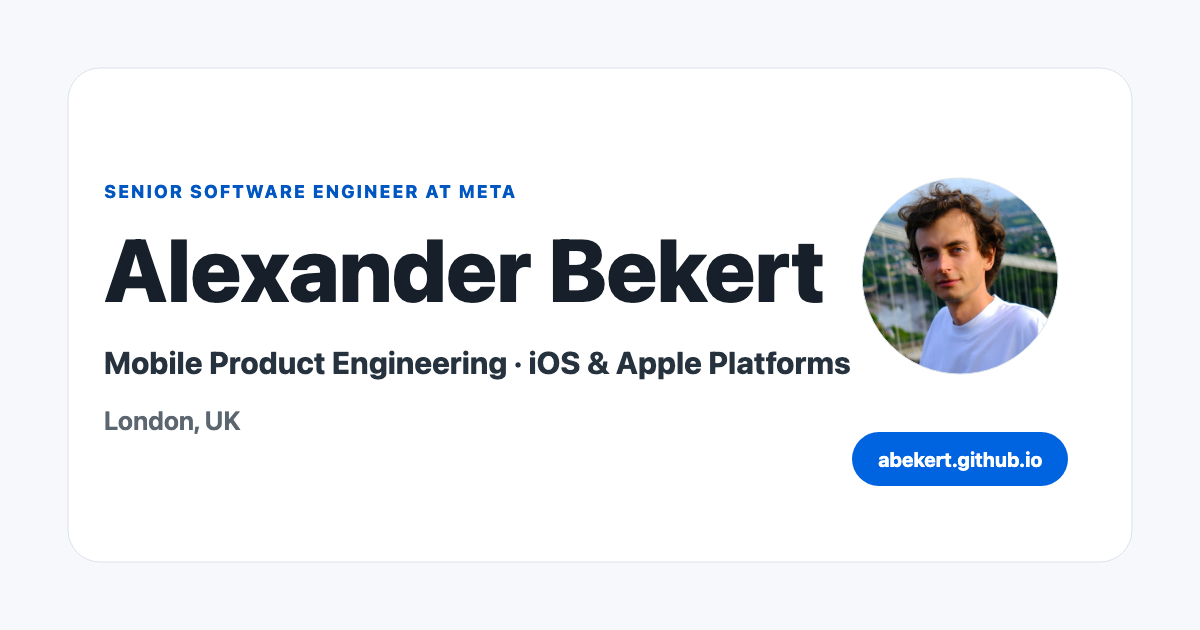
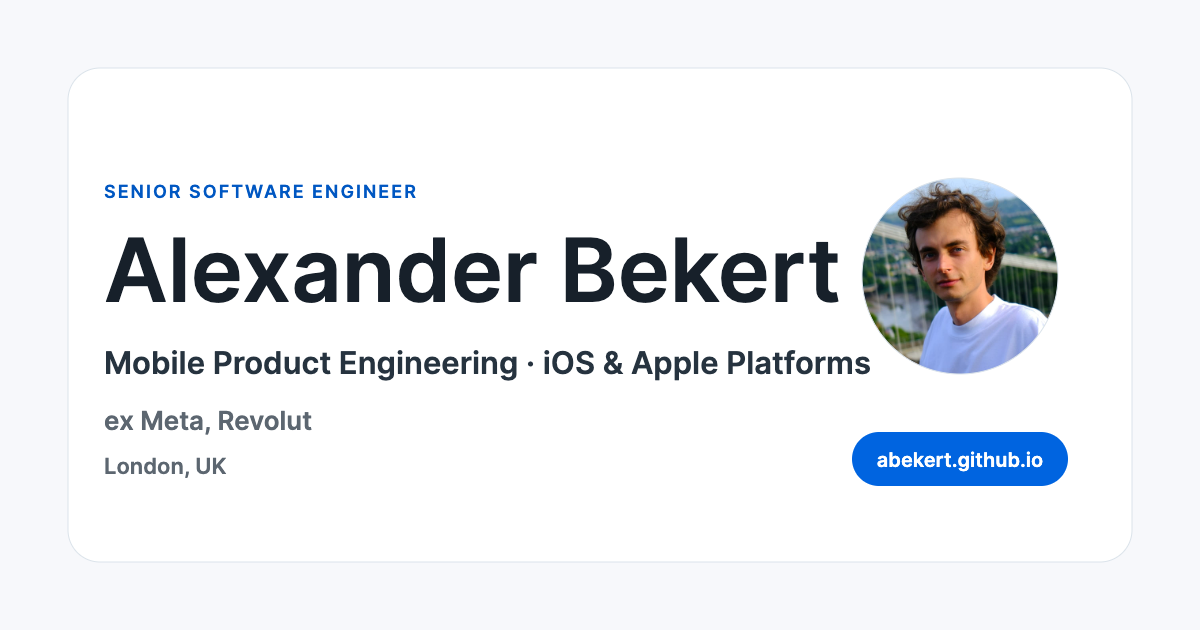
Update profile to highlight past Meta and Revolut experience

diff --git a/index.html b/index.html
@@ -6,11 +6,11 @@
     <title>Alexander Bekert — Senior Software Engineer, Mobile Product Engineering, iOS & Apple Platforms</title>
     <meta
       name="description"
-      content="Senior Software Engineer at Meta / WhatsApp focused on mobile product engineering, iOS, Apple platforms, mobile architecture, developer tooling, performance, and AI-assisted software development."
+      content="Senior Software Engineer, previously at Meta / WhatsApp (2022 - 2026) and Revolut (2021 - 2022), focused on mobile product engineering, iOS, Apple platforms, mobile architecture, developer tooling, performance, and AI-assisted software development."
     />
     <meta
       name="keywords"
-      content="Alexander Bekert, Senior Software Engineer, Mobile Engineering, iOS, Swift, Apple Platforms, WhatsApp, Meta, Mobile Architecture, Developer Tools, Product Engineering"
+      content="Alexander Bekert, Senior Software Engineer, Mobile Engineering, iOS, Swift, Apple Platforms, WhatsApp, Meta, Revolut, Mobile Architecture, Developer Tools, Product Engineering"
     />
     <meta name="author" content="Alexander Bekert" />
     <meta name="theme-color" content="#f7f8fb" />
@@ -24,7 +24,7 @@
     <meta property="og:title" content="Alexander Bekert — Senior Software Engineer, Mobile Product Engineering, iOS & Apple Platforms" />
     <meta
       property="og:description"
-      content="Senior Software Engineer at Meta / WhatsApp focused on mobile product engineering, iOS, Apple platforms, mobile architecture, developer tooling, performance, and AI-assisted software development."
+      content="Senior Software Engineer, previously at Meta / WhatsApp (2022 - 2026) and Revolut (2021 - 2022), focused on mobile product engineering, iOS, Apple platforms, mobile architecture, developer tooling, performance, and AI-assisted software development."
     />
     <meta property="og:image" content="https://abekert.github.io/images/og-image.png" />
     <meta property="og:image:alt" content="Alexander Bekert personal website preview" />
@@ -34,12 +34,12 @@
     <meta name="twitter:title" content="Alexander Bekert — Senior Software Engineer, Mobile Product Engineering, iOS & Apple Platforms" />
     <meta
       name="twitter:description"
-      content="Senior Software Engineer at Meta / WhatsApp focused on mobile product engineering, iOS, Apple platforms, mobile architecture, developer tooling, performance, and AI-assisted software development."
+      content="Senior Software Engineer, previously at Meta / WhatsApp (2022 - 2026) and Revolut (2021 - 2022), focused on mobile product engineering, iOS, Apple platforms, mobile architecture, developer tooling, performance, and AI-assisted software development."
     />
     <meta name="twitter:image" content="https://abekert.github.io/images/og-image.png" />
     <meta name="twitter:image:alt" content="Alexander Bekert personal website preview" />
 
-    <link rel="stylesheet" href="assets/css/main.css?v=20260906.1" />
+    <link rel="stylesheet" href="assets/css/main.css?v=20260929.1" />
     <script src="/assets/js/analytics.js"></script>
     <script type="application/ld+json">
       {
@@ -47,10 +47,16 @@
         "@type": "Person",
         "name": "Alexander Bekert",
         "jobTitle": "Senior Software Engineer",
-        "worksFor": {
-          "@type": "Organization",
-          "name": "Meta / WhatsApp"
-        },
+        "alumniOf": [
+          {
+            "@type": "Organization",
+            "name": "Meta / WhatsApp"
+          },
+          {
+            "@type": "Organization",
+            "name": "Revolut"
+          }
+        ],
         "url": "https://abekert.github.io/",
         "sameAs": [
           "https://www.linkedin.com/in/abekert",
@@ -76,10 +82,14 @@
         <div class="hero-content">
           <h1>Alexander Bekert</h1>
           <p class="headline">
-            Senior Software Engineer at
+            Senior Software Engineer · ex
             <span class="company-mark">
               <img src="images/meta-logo.svg" alt="" aria-hidden="true" decoding="async" />
               <span>Meta</span>
+            </span>,
+            <span class="company-mark">
+              <img class="revolut-logo" src="images/revolut-logo.svg" alt="" aria-hidden="true" decoding="async" />
+              <span>Revolut</span>
             </span>
             <span class="headline-break">Mobile Product Engineering · iOS & Apple Platforms</span>
           </p>
@@ -115,8 +125,8 @@
               </dd>
             </div>
             <div>
-              <dt>Current focus</dt>
-              <dd>WhatsApp for iOS · Apple platforms · Mobile product engineering</dd>
+              <dt>Expertise</dt>
+              <dd>iOS · Apple platforms · Mobile product engineering</dd>
             </div>
             <div>
               <dt>Role fit</dt>
@@ -162,11 +172,11 @@
               <div>
                 <h3 class="company"><a href="https://www.meta.com/">Meta</a> / <a href="https://www.whatsapp.com/">WhatsApp</a></h3>
                 <p>Senior Software Engineer</p>
-                <span class="experience-date">2022 - Present</span>
+                <span class="experience-date">2022 - 2026</span>
               </div>
             </div>
             <p>
-              WhatsApp engineering on Apple platforms, focused on media-rich
+              Built WhatsApp experiences on Apple platforms, with a focus on media-rich
               product surfaces, expression experiences, mobile architecture, performance,
               platform integration, developer velocity, and AI-assisted engineering workflows.
             </p>

diff --git a/assets/css/main.css b/assets/css/main.css
@@ -149,6 +149,10 @@ h3 {
   flex: 0 0 auto;
 }
 
+.company-mark img.revolut-logo {
+  width: 0.86em;
+}
+
 .hero-copy {
   max-width: 760px;
   margin-bottom: 2rem;
